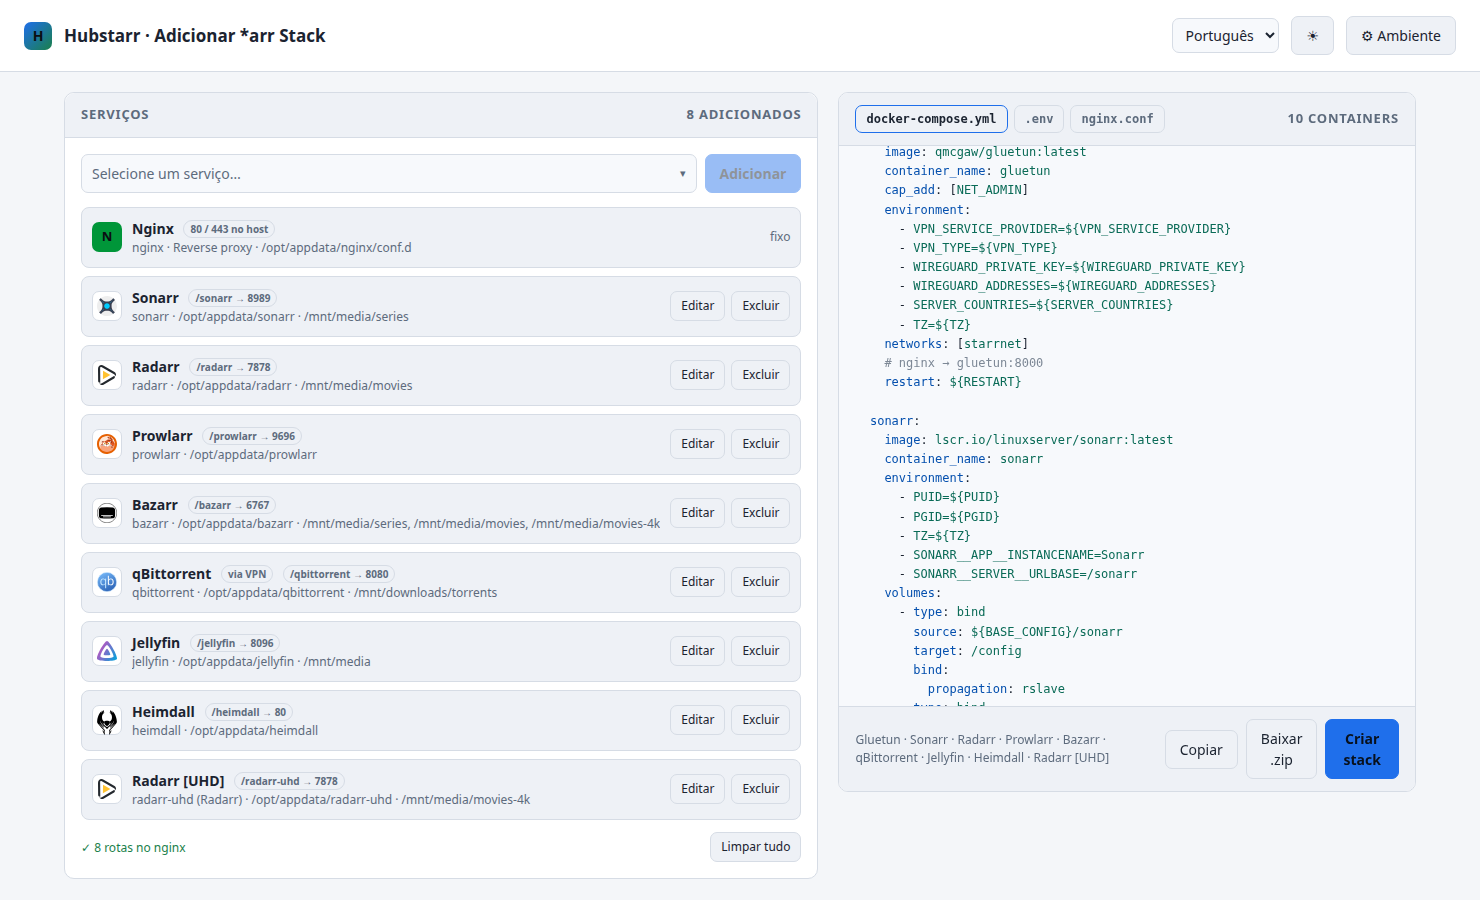
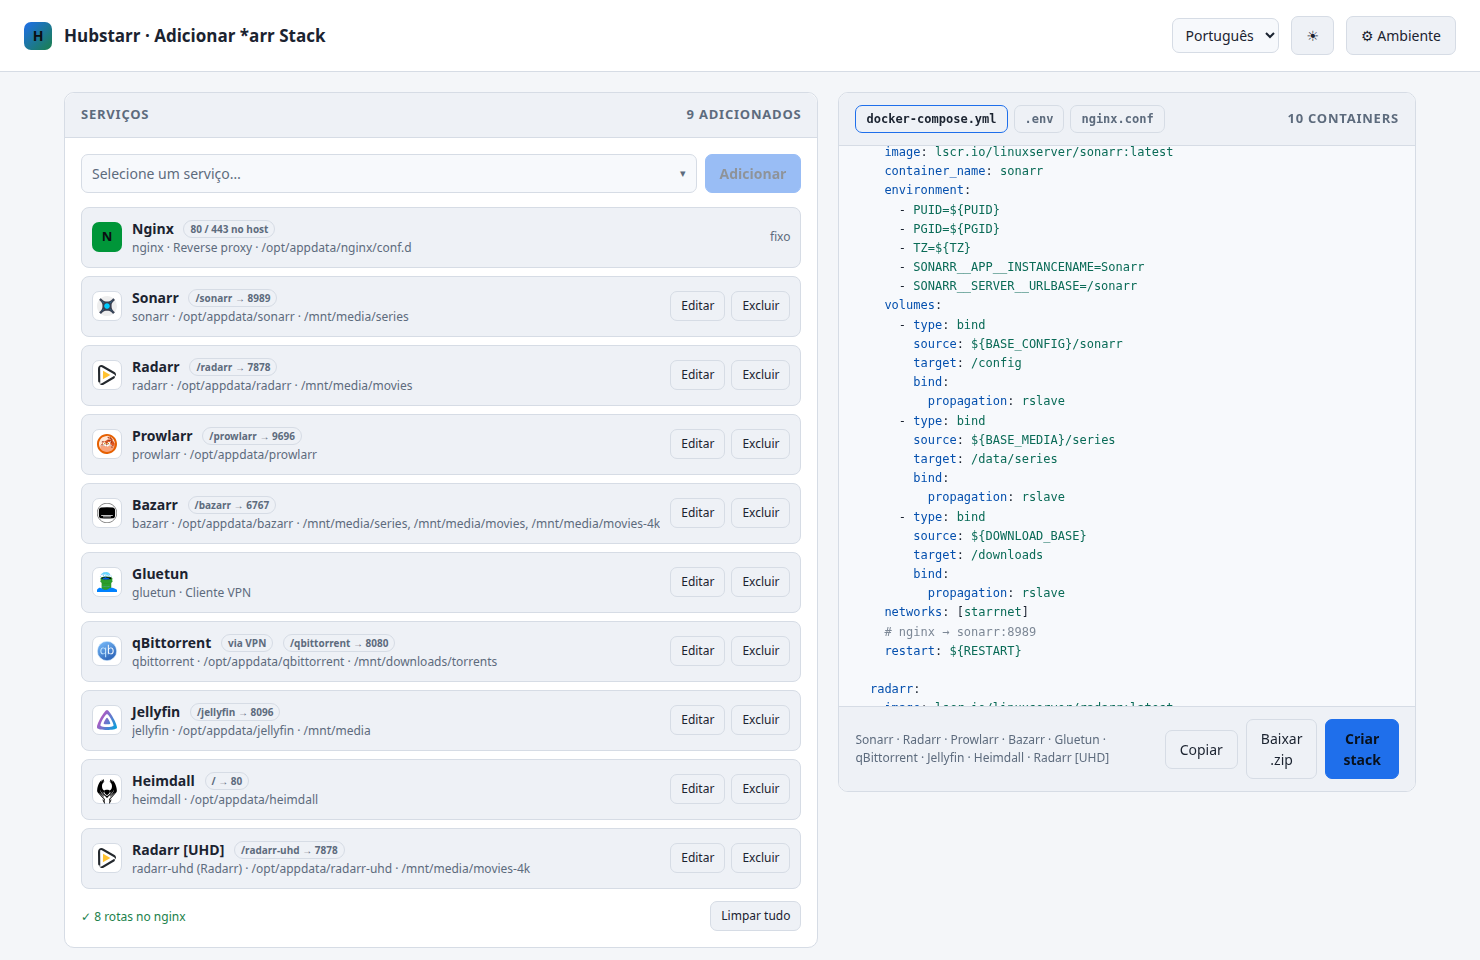
Adiciona o gluetun à lista e leva o Heimdall para a raiz
Marcar "rotear pela VPN" passa a inserir o gluetun na stack, na frente dos
demais, em vez de ele só aparecer no YAML gerado. Sem tag de rota: quem vira
location no nginx são os serviços roteados por ele.

O Heimdall, como painel de atalhos, responde em "location /" — o caminho de
cada serviço agora sai do helper route(), usado tanto no nginx.conf quanto na
interface.

A lista de time zones passa a ser a IANA inteira que o navegador expõe, com
fallback curto, e começa no fuso da máquina.

Claude-Session: https://claude.ai/code/session_015LuLcnjAzBdqJZcLS8RGMy

diff --git a/arr-stack-prototype.html b/arr-stack-prototype.html
@@ -201,10 +201,7 @@
         </div>
       </div>
       <div class="row"><label for="eTz" data-i18n="env.tz">Time Zone</label>
-        <select id="eTz">
-          <option>America/Sao_Paulo</option><option>America/New_York</option>
-          <option>Europe/Lisbon</option><option>UTC</option>
-        </select>
+        <select id="eTz"></select>
       </div>
       <div class="row"><label for="eRestart" data-i18n="env.restart">Restart policy</label>
         <select id="eRestart"><option>unless-stopped</option><option>always</option><option>no</option></select>
@@ -666,6 +663,9 @@ const inner = id => svc(id).port;
 const INSTANCE_ENV = {sonarr:'SONARR__APP__INSTANCENAME', radarr:'RADARR__APP__INSTANCENAME'};
 
 // base URL do app, que precisa bater com o subpath roteado pelo nginx
+// serviço que atende na raiz do proxy, em vez de um subpath próprio
+const ROOT_SERVICE = 'heimdall';
+
 const URLBASE_ENV = {sonarr:'SONARR__SERVER__URLBASE', radarr:'RADARR__SERVER__URLBASE',
                      lidarr:'LIDARR__SERVER__URLBASE', prowlarr:'PROWLARR__SERVER__URLBASE'};
 
@@ -707,9 +707,37 @@ const NETWORK = 'starrnet';
 const NGINX = {id:'nginx', name:'Nginx',
                img:'nginx:alpine', color:'#009639', http:80, https:443};
 
+/* fusos: o navegador moderno entrega a lista IANA inteira; sem ela, fica uma
+   seleção curta que cobre as regiões mais comuns da stack */
+const FALLBACK_TZ = ['UTC',
+  'America/Sao_Paulo','America/Bahia','America/Fortaleza','America/Manaus',
+  'America/Argentina/Buenos_Aires','America/Santiago','America/Bogota',
+  'America/Lima','America/Mexico_City','America/New_York','America/Chicago',
+  'America/Denver','America/Los_Angeles','America/Toronto',
+  'Europe/Lisbon','Europe/Madrid','Europe/London','Europe/Paris','Europe/Berlin',
+  'Europe/Rome','Europe/Amsterdam','Europe/Moscow',
+  'Africa/Luanda','Africa/Maputo','Africa/Johannesburg',
+  'Asia/Dubai','Asia/Kolkata','Asia/Shanghai','Asia/Tokyo',
+  'Australia/Sydney','Pacific/Auckland'];
+
+const TIMEZONES = (()=>{
+  try{ const all = Intl.supportedValuesOf('timeZone'); if(all && all.length) return all; }
+  catch(e){}
+  return FALLBACK_TZ;
+})();
+
+// fuso do próprio navegador, quando estiver na lista
+function localTz(){
+  try{
+    const tz = Intl.DateTimeFormat().resolvedOptions().timeZone;
+    if(TIMEZONES.includes(tz)) return tz;
+  }catch(e){}
+  return TIMEZONES.includes('America/Sao_Paulo') ? 'America/Sao_Paulo' : 'UTC';
+}
+
 const DEFAULTS = {restart:'unless-stopped',
                   cfg:'/opt/appdata', data:'/mnt/media', dl:'/mnt/downloads',
-                  puid:'1000', pgid:'1000', tz:'America/Sao_Paulo',
+                  puid:'1000', pgid:'1000', tz:localTz(),
                   // gluetun
                   vpnProv:'mullvad', vpnType:'wireguard',
                   wgKey:'', wgAddr:'', ovpnUser:'', ovpnPass:'', countries:''};
@@ -732,6 +760,8 @@ const slug = t => (t||'').normalize('NFD').replace(/[\u0300-\u036f]/g,'')
   .replace(/[^a-z0-9]+/g,'-')
   .replace(/^-+|-+$/g,'');
 const cname = a => slug(a.title) || a.id;   // container_name / service key / pasta
+// caminho no nginx: subpath próprio, ou a raiz para o painel de atalhos
+const route = a => a.id===ROOT_SERVICE ? '/' : '/'+cname(a);
 const has = id => added.some(a=>a.id===id);
 const byKey = k => added.find(a=>cname(a)===k);
 // caminhos sempre derivados das bases do Ambiente, expostas como variáveis
@@ -815,7 +845,7 @@ function renderItems(){
       <div class="meta">
         <div class="nm">${a.title || s.name}
           ${a.vpn?`<span class="tag">${t('items.viaVpn')}</span>`:''}
-          <span class="tag">/${cname(a)} → ${inner(a.id)}</span>
+          ${a.id==='gluetun' ? '' : `<span class="tag">${route(a)} → ${inner(a.id)}</span>`}
         </div>
         <div class="ds">${cname(a)}${(a.title && a.title!==s.name)?' ('+s.name+')':''}${s.noVol?' · '+sdesc(s.id):' · '+cfgReal(a)}${s.media&&!s.noVol?' · '+dataReal(a):''}</div>
       </div>
@@ -931,6 +961,8 @@ $('#mSave').onclick = ()=>{
 
   if(editing) added = added.map(a=>cname(a)===editing?cfg:a);
   else { added.push(cfg); picked=null; }
+  // rotear pela VPN exige o gluetun na stack: entra sozinho, na frente de todos
+  if(cfg.vpn && !has('gluetun')) added.unshift(defCfg('gluetun'));
   closeModal(); renderItems(); renderCombo(); render();
 };
 
@@ -1116,10 +1148,10 @@ function buildNginx(list){
   }
   items.forEach(a=>{
     const host = a.vpn ? 'gluetun' : cname(a);
-    const path = cname(a);
+    const path = route(a);
     N.push(``);
     N.push(`  <span class="c"># ${a.title || svc(a.id).name}</span>`);
-    N.push(`  <span class="k">location</span> <span class="v">/${path}</span> {`);
+    N.push(`  <span class="k">location</span> <span class="v">${path}</span> {`);
     N.push(`    <span class="k">proxy_pass</span> <span class="v">http://${host}:${inner(a.id)}</span>;`);
     N.push(`    <span class="k">proxy_set_header</span> <span class="v">Host $host</span>;`);
     N.push(`    <span class="k">proxy_set_header</span> <span class="v">X-Real-IP $remote_addr</span>;`);
@@ -1285,6 +1317,8 @@ $('#deploy').onclick = e=>{
   setTimeout(()=>{ e.target.textContent=t('btn.deployed');
     setTimeout(()=>{e.target.textContent=t('btn.deploy');e.target.disabled=false},1800); },900);
 };
+
+$('#eTz').innerHTML = TIMEZONES.map(z=>`<option>${z}</option>`).join('');
 
 $('#langSel').innerHTML = Object.entries(LANGS)
   .map(([k,v])=>`<option value="${k}">${v}</option>`).join('');

diff --git a/README.md b/README.md
@@ -24,8 +24,10 @@ O combobox lista os serviços disponíveis com seus logotipos e portas padrão:
 - **Base URL automática**: Sonarr, Radarr, Lidarr e Prowlarr recebem
   `<APP>__SERVER__URLBASE=/<container_name>`, já casando com o subpath do
   nginx. O Bazarr não expõe essa variável — a base fica na interface dele.
-- **Ambiente global** (botão no topo): bases de caminho, PUID/PGID, timezone,
-  nome da stack, restart policy e as credenciais do gluetun.
+- **Ambiente global** (botão no topo): bases de caminho, PUID/PGID, time zone,
+  nome da stack, restart policy e as credenciais do gluetun. A lista de fusos é
+  a IANA inteira, vinda do próprio navegador, e o valor inicial é o fuso da
+  máquina.
 - **Baixar** `docker-compose.yml`, `.env` e `nginx/conf.d/starrnet.conf` juntos
   num `.zip`.
 - **Trocar o idioma** no seletor do topo: português (Brasil), inglês e
@@ -77,7 +79,8 @@ não pode ser removido. É o único container que publica portas no host (80 e
 que é quem detém a rede.
 
 A aba **nginx.conf** gera a configuração correspondente, roteando por subpath
-(`/sonarr`, `/radarr`…), um `location` por serviço. O arquivo é montado em
+(`/sonarr`, `/radarr`…), um `location` por serviço. O Heimdall é a exceção:
+como painel de atalhos, fica na raiz (`location /`). O arquivo é montado em
 `${BASE_CONFIG}/nginx/conf.d` e cada app precisa da sua *base URL* igual ao
 subpath.
 
